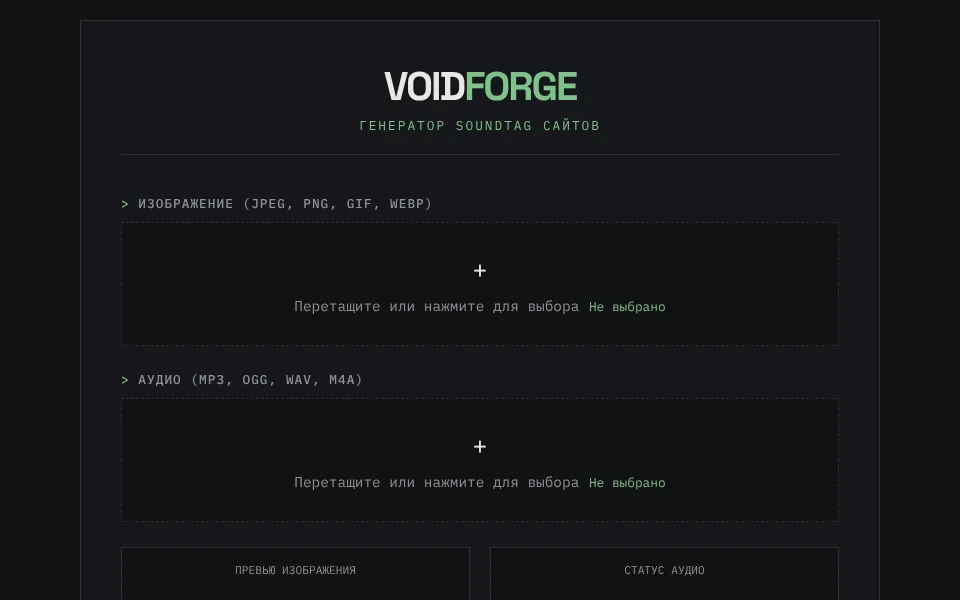
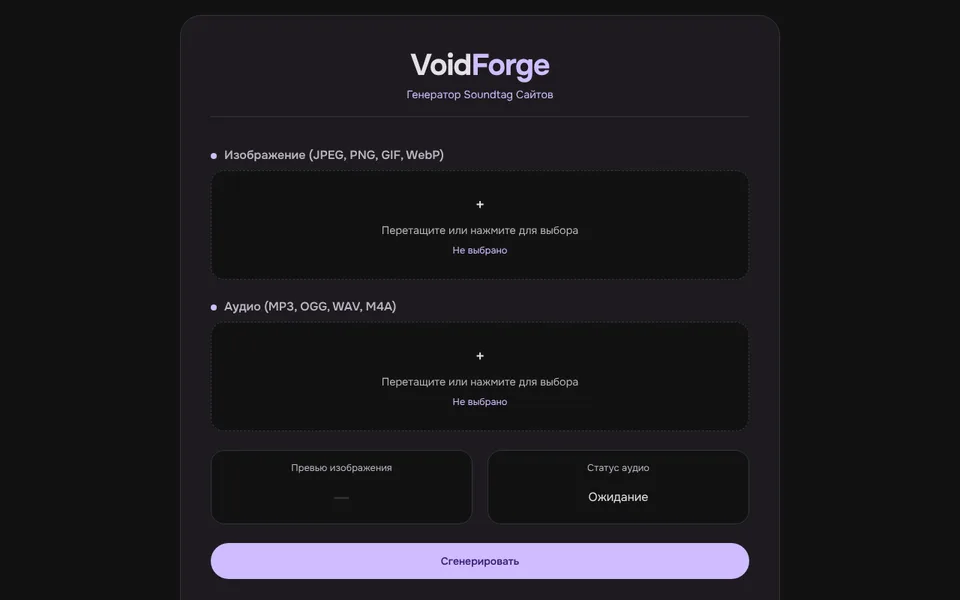
Баги: кнопка VoidForge и её наведение, подписи в зонах загрузки, углы рамки, шапка на телефоне, вкладки QR, остатки мятного
Claude-Session: https://claude.ai/code/session_01NerikphXdw5LsC3ChMqPgt

diff --git a/voidforge.css b/voidforge.css
@@ -13,6 +13,7 @@ body { font-family: 'Onest', system-ui, sans-serif; background: var(--bg); color
 .file-upload-area:hover { border-color: var(--accent); }
 .file-upload-area .upload-icon { font-size: 24px; display: block; margin-bottom: 10px; }
 .file-upload-area .upload-text { font-size: 0.9em; color: var(--text-muted); }
+.file-upload-area .upload-text, .file-upload-area .file-name { display: block; }
 .file-upload-area .file-name { font-size: 0.8em; color: var(--accent); margin-top: 10px; word-break: break-all; }
 input[type="file"] { display: none; }
 .preview-row { display: grid; grid-template-columns: 1fr 1fr; gap: 20px; margin-bottom: 25px; }
@@ -26,7 +27,7 @@ input[type="file"] { display: none; }
 .btn:hover:not(:disabled) { border-color: var(--accent); color: var(--accent); }
 .btn:disabled { opacity: 0.5; cursor: not-allowed; }
 .btn-generate { background: var(--accent); color: #381e72; border-color: var(--accent); }
-.btn-generate:hover:not(:disabled) { background: #a8ecc2; color: #381e72; }
+.btn-generate:hover:not(:disabled) { background: #e3d7ff; color: #381e72; }
 .btn-download, .btn-preview { display: none; }
 .btn-download.visible, .btn-preview.visible { display: flex; }
 .generated-info { display: none; margin-top: 20px; padding: 15px; border: 1px solid var(--accent); color: var(--accent); font-size: 0.9em; text-align: center; text-transform: uppercase; }
@@ -40,7 +41,7 @@ input[type="file"] { display: none; }
 /* ===== СТИЛИ ДЛЯ ГАЙДА ===== */
 .guide-trigger { margin-top: 40px; text-align: center; border-top: 1px solid var(--border); padding-top: 20px; }
 .btn-guide { width: 100%; background: var(--bg); border-style: dashed; font-size: 1em; padding: 18px; }
-.btn-guide:hover { border-style: solid; background: rgba(143, 224, 176, 0.05); }
+.btn-guide:hover { border-style: solid; background: rgba(208, 188, 255, 0.08); }
 
 /* Бронебойная анимация через max-height */
 .guide-section { 

diff --git a/qr/anim.js b/qr/anim.js
@@ -3,7 +3,7 @@
     'use strict';
     var R = window.QRRender, TAU = Math.PI * 2;
 
-    var DEFAULTS = { on: false, effect: 'flow', bg: 'aurora', c1: '#0b2a3a', c2: '#1f7a8c', c3: '#8fe0b0', glyph: '✦', dim: 0.35, dur: 4, aspect: 'square', pad: 0.14, caption: '', capColor: '#ffffff', fx: '#d6336c' };
+    var DEFAULTS = { on: false, effect: 'flow', bg: 'aurora', c1: '#0b2a3a', c2: '#1f7a8c', c3: '#d0bcff', glyph: '✦', dim: 0.35, dur: 4, aspect: 'square', pad: 0.14, caption: '', capColor: '#ffffff', fx: '#d6336c' };
     var EFFECTS = [['static', 'Без движения'], ['flow', 'Течение цвета'], ['wave', 'Волны'], ['rainbow', 'Радуга'], ['pulse', 'Круги от центра'], ['scan', 'Луч сканера'], ['sparkle', 'Искры']];
     var BGS = [['solid', 'Цвет'], ['gradient', 'Вращающийся градиент'], ['aurora', 'Северное сияние'], ['pattern', 'Узор из символов'], ['image', 'Своя картинка']];
 

diff --git a/ttyou.css b/ttyou.css
@@ -208,3 +208,18 @@ footer::before { content: ""; position: absolute; left: 0; right: 0; top: -5px; 
 /* Строки в описании проекта не длиннее ~75 знаков */
 #projectDetail p, #projectDetail li { max-width: 62ch; }
 p, li { text-wrap: pretty; }
+
+body > .container { border-radius: var(--r-lg); }
+
+/* VoidForge: кнопка «Сгенерировать» остаётся акцентной */
+.btn.btn-generate { background: var(--accent); color: #381e72; border-color: transparent; }
+.btn.btn-generate:disabled { opacity: .55; }
+.btn.btn-generate:hover:not(:disabled) { background: #e3d7ff; color: #381e72; border-color: transparent; }
+
+/* Телефон: шапка не слипается, вкладки QR переносятся */
+@media (max-width: 700px) {
+    .header-controls { justify-self: end; gap: 10px; }
+    .modes { flex-wrap: wrap; }
+}
+
+@media (max-width: 968px) { header:not(.bar) { display: flex; justify-content: space-between; } }

diff --git a/qr/qr.css b/qr/qr.css
@@ -129,7 +129,7 @@ progress { width: 100%; height: 8px; margin-top: 12px; accent-color: var(--accen
 /* сканер */
 .camwrap { position: relative; background: #000; border-radius: 18px; overflow: hidden; margin-bottom: 4px; aspect-ratio: 4 / 3; }
 .camwrap video { width: 100%; height: 100%; object-fit: cover; display: block; }
-.reticle { position: absolute; inset: 18%; border: 2px solid rgba(143, 224, 176, 0.9); border-radius: 22px; box-shadow: 0 0 0 999px rgba(0, 0, 0, 0.35); }
+.reticle { position: absolute; inset: 18%; border: 2px solid rgba(208, 188, 255, 0.9); border-radius: 22px; box-shadow: 0 0 0 999px rgba(0, 0, 0, 0.35); }
 .drop { border: 1px dashed var(--border); padding: 22px; text-align: center; color: var(--muted); font-size: 13px; margin-top: 14px; border-radius: 18px; }
 .drop.over { border-color: var(--accent); color: var(--accent); }
 .rows { display: grid; grid-template-columns: auto 1fr; gap: 6px 14px; font-size: 13.5px; margin-bottom: 10px; }
